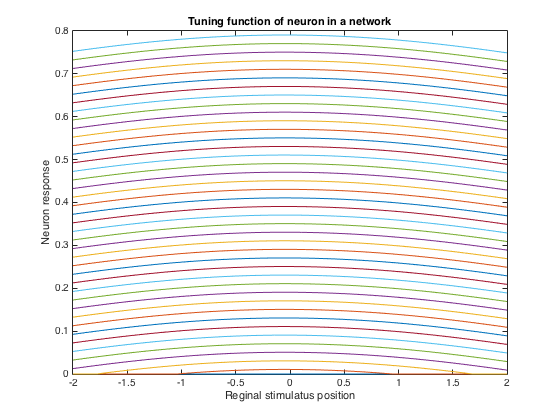
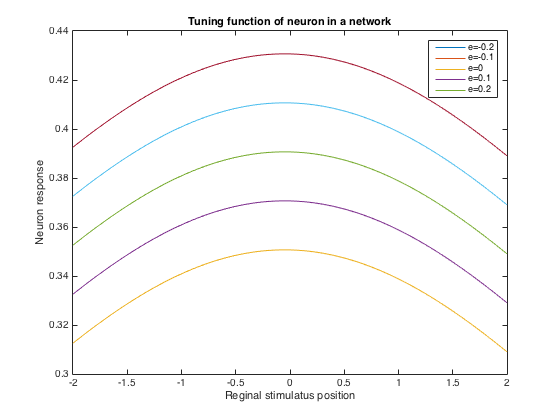
updated figure

Changed region(s): [[0.0607, 0.0619, 0.9107, 0.8976], [0.0911, 0.0619, 0.1214, 0.0929]]

diff --git a/sbe2/HW/hw8/sbe2hw8.m b/sbe2/HW/hw8/sbe2hw8.m
@@ -57,14 +57,16 @@ ylabel('Neuron response');
 title('Tuning function of neuron in a network');
 
 %% Part 4
-e=-2:0.1:2;
-
+e=-0.2:0.1:0.2;
+lgs = {};
 figure (4)
 for q = 1:length(e)
     pre(q,:) = pt(20,r,rrange(50),e(q),ps);
     plot(r, pre(q,:));
+    lgs{q} = strcat('e=', num2str(e(q)));
     hold on
 end
 xlabel('Reginal stimulatus position');
 ylabel('Neuron response');
 title('Tuning function of neuron in a network');
+legend(lgs)
